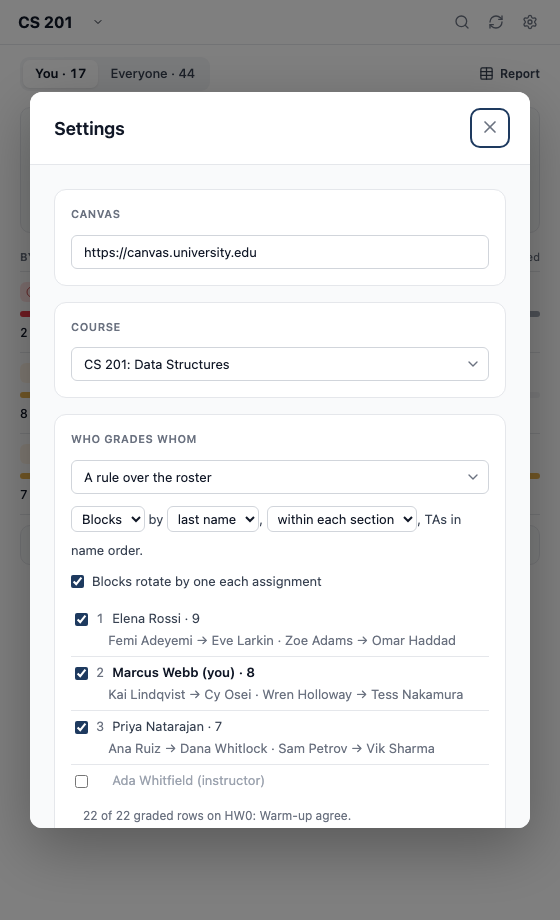
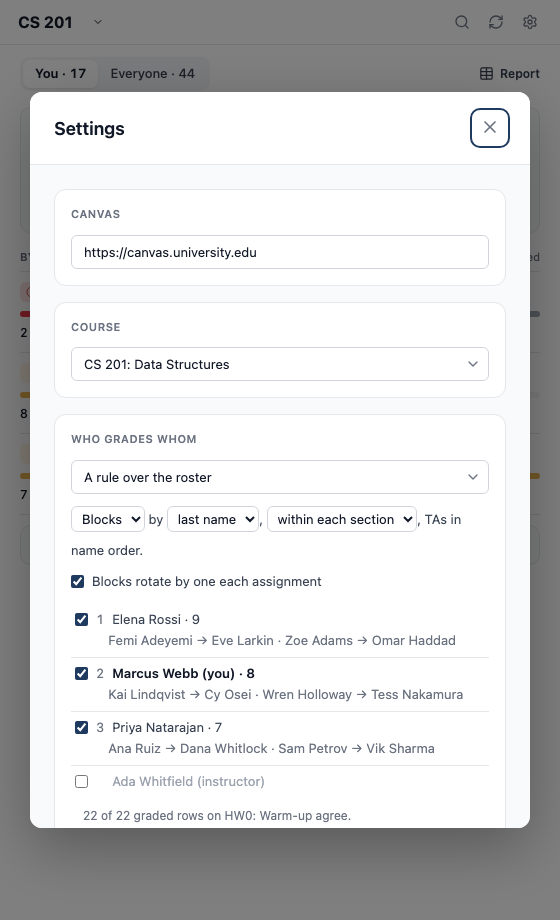
Grading screenshots retaken

Changed region(s): [[0.1518, 0.6696, 0.4554, 0.7913], [0.1821, 0.8217, 0.4554, 0.8522], [0.1518, 0.7, 0.1821, 0.7304]]

diff --git a/docs/index.html b/docs/index.html
@@ -542,7 +542,7 @@
                 <p class="sub">Fictional course, invented students: nothing in these captures comes from a real Canvas course.</p>
 
                 <div class="shot-feature">
-                    <div class="shot-media"><img src="ss-grading-queue.png?v=9" width="560" height="806" alt="The Kandue for Graders queue: a You · 17 / Everyone · 44 switch beside the Report link, 17 to grade in a ring split into 2 at 7+ days since due and 15 under 7 days, then rows for HW0, HW1 and Lab 2, each led by its longest wait (11 days, in red, for HW0), with a bar and a line such as &quot;2 of your 8 to grade · 6 graded&quot;, and Not due yet and Done buttons under the list" loading="lazy" decoding="async"></div>
+                    <div class="shot-media"><img src="ss-grading-queue.png?v=10" width="560" height="806" alt="The Kandue for Graders queue: a You · 17 / Everyone · 44 switch beside the Report link, 17 to grade in a ring split into 2 at 7+ days since due and 15 under 7 days, then rows for HW0, HW1 and Lab 2, each led by its longest wait (11 days, in red, for HW0), with a bar and a line such as &quot;2 of your 8 to grade · 6 graded&quot;, and Not due yet and Done buttons under the list" loading="lazy" decoding="async"></div>
                     <div class="shot-copy">
                         <h4>Who is waiting on you</h4>
                         <p>Every assignment with students of yours still to grade, the longest wait at the top. Each row says how long the first of your students has waited and how many of them are still to grade, with a bar for your block.</p>
@@ -551,12 +551,12 @@
 
                 <div class="shot-grid">
                     <div class="shot">
-                        <img src="ss-grading-work.png?v=9" width="560" height="820" alt="The worklist for HW0: Warm-up, due 11 days ago, with the grader's median score against the other graders', Rosa Mendes and Nia Okafor marked To grade, and the students around them already scored 4 or 5 out of 5" loading="lazy" decoding="async">
+                        <img src="ss-grading-work.png?v=10" width="560" height="820" alt="The worklist for HW0: Warm-up, due 11 days ago, with the grader's median score against the other graders', Rosa Mendes and Nia Okafor marked To grade, and the students around them already scored 4 or 5 out of 5" loading="lazy" decoding="async">
                         <h4>The worklist for your block</h4>
                         <p>To grade, graded with the score, resubmitted, late, missing or excused, each student one click from SpeedGrader.</p>
                     </div>
                     <div class="shot">
-                        <img src="ss-grading-split.png?v=10" width="560" height="920" alt="Kandue for Graders settings showing who grades whom: three TAs with their student ranges, the signed-in grader's own block in bold, and a note that 22 of 22 graded rows match this split" loading="lazy" decoding="async">
+                        <img src="ss-grading-split.png?v=11" width="560" height="920" alt="Kandue for Graders settings showing who grades whom: three TAs with their student ranges, the signed-in grader's own block in bold, and a note that 22 of 22 graded rows match this split" loading="lazy" decoding="async">
                         <h4>Who grades whom, read back</h4>
                         <p>The split every TA is actually using, checked against every grade already entered, with the disagreements named.</p>
                     </div>
